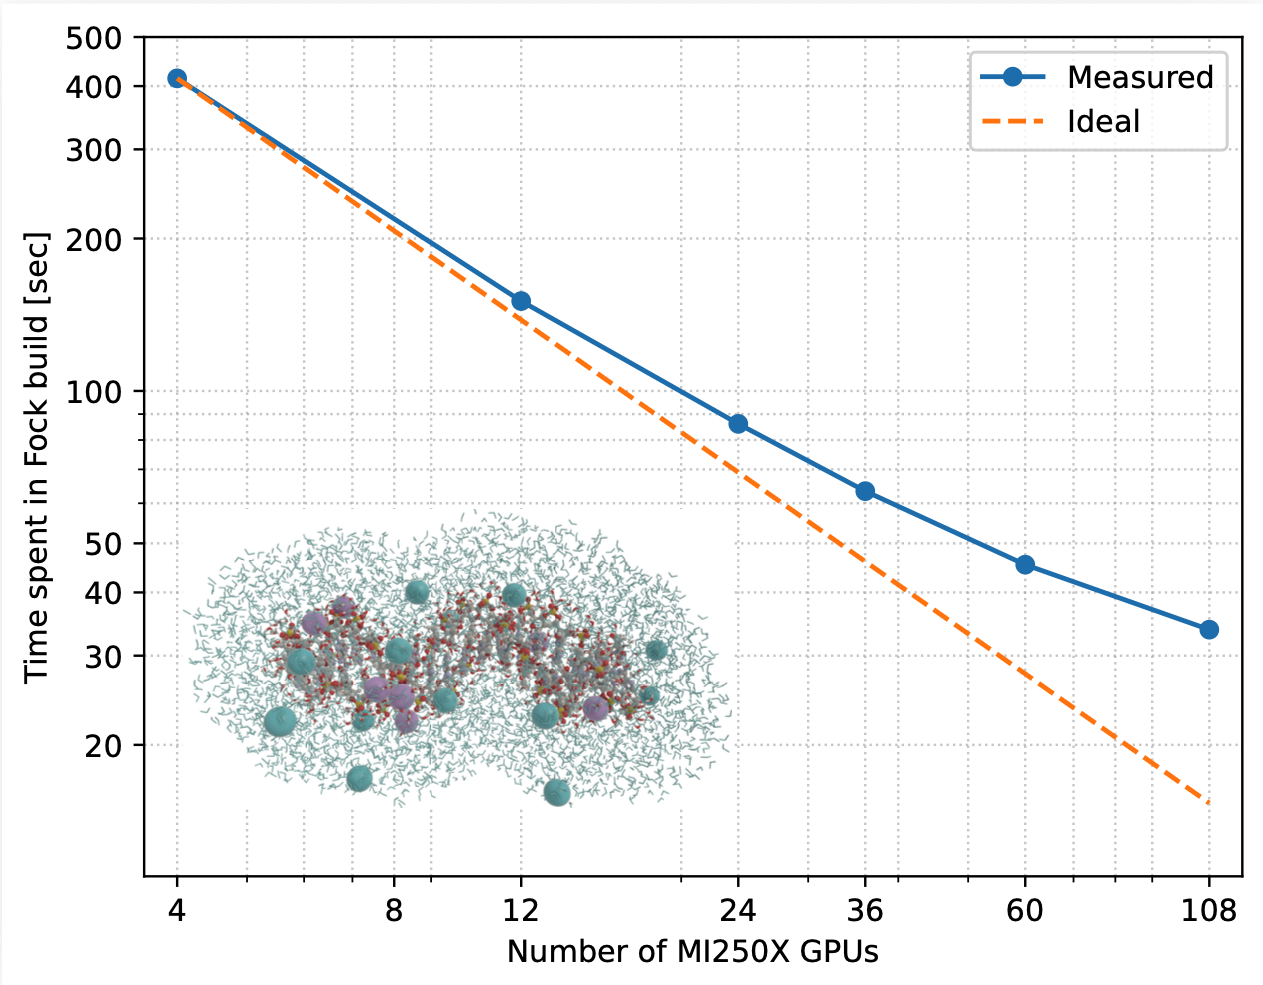
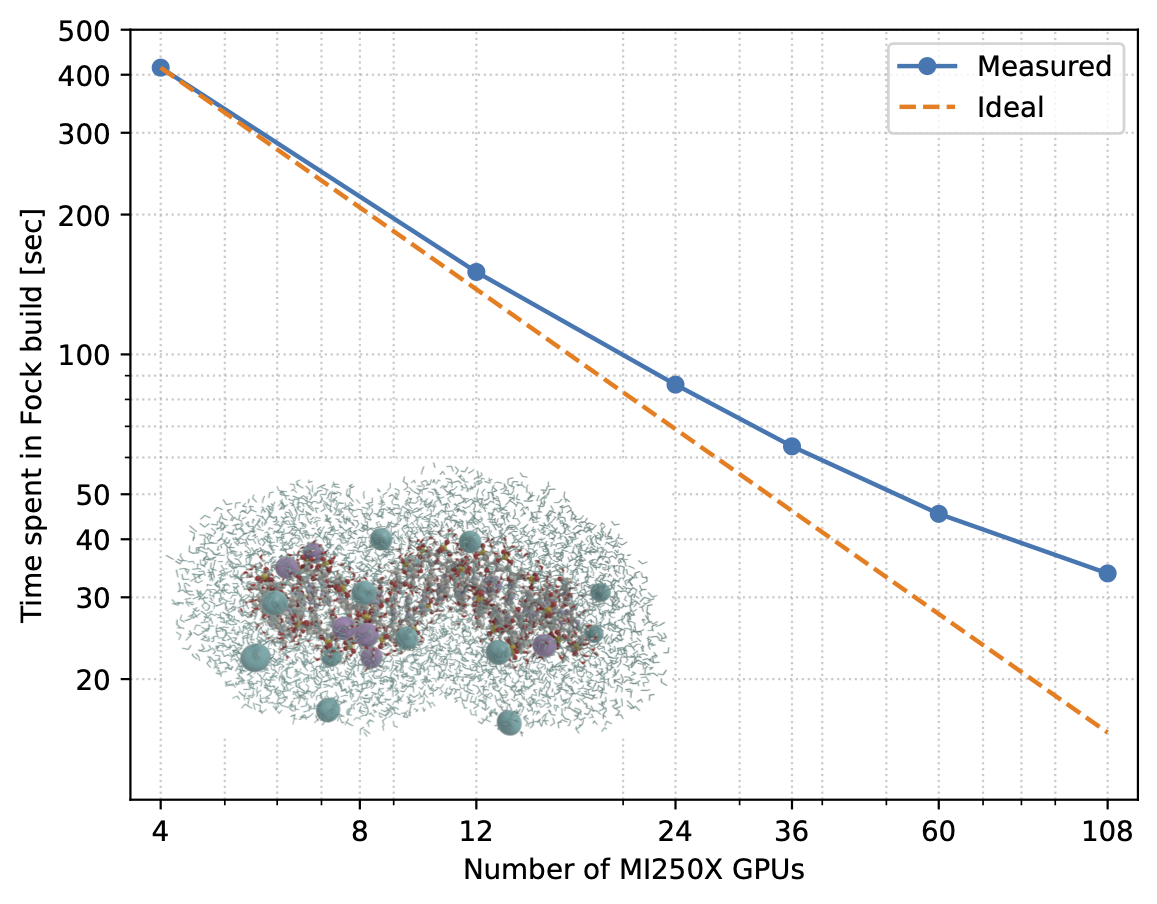
polish

diff --git a/docs/limits.md b/docs/limits.md
@@ -29,9 +29,9 @@ Timings are in seconds, measured on 1 LUMI-CPU node with 128 cores (8 MPI x 16 O
 
 #### HPC-CPU
 
-*Polarizabilities and C6 dispersion coefficients*
+*MPI/OpenMP parallel Fock matrix construction*
 
-With a highly efficient implementation of the linear complex polarization propagator in VeloxChem, Hartree–Fock and Kohn–Sham density-functional theory calculations were performed of the frequency-dependent polarizabilities for fullerenes consisting of up to 540 carbon atoms. Results for the static polarizabilities and C6 coefficients show scalings of $N^{1.2}$ and $N^{2.2}$, respectively,  thereby deviating significantly from the previously reported values obtained with use of semi-classical/empirical methods. See {cite}`Brand2021` for further details.
+With a highly efficient MPI/OpenMP implementation of linear response functions (here specifically complex polarization propagator theory), calculations have been performed of the frequency-dependent polarizabilities for fullerenes consisting of up to 540 carbon atoms. These calculations were performed on AMD EPYC Zen2 64-core CPUs. See {cite}`Brand2021` for further details.
 
 
 :::{image} ../images/alpha_fullerene.png
